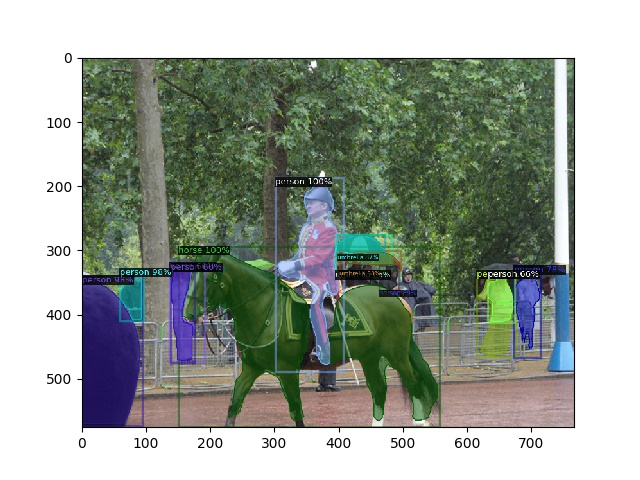
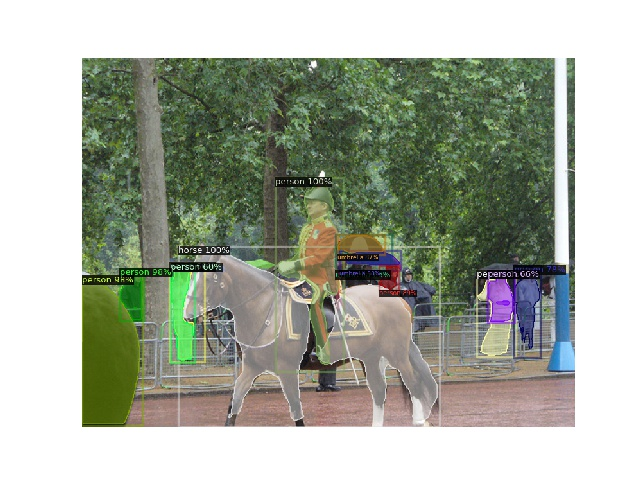
Train function completed with data loader. Old inference code moved to sample_inference.

diff --git a/loader.py b/loader.py
@@ -1,0 +1,79 @@
+import cv2
+import os
+import numpy as np
+import json
+import random
+from detectron2.structures import BoxMode
+from detectron2.utils.visualizer import Visualizer
+
+def get_balloon_dicts(img_dir):
+    json_file = os.path.join(img_dir, "via_region_data.json")
+    
+    with open(json_file) as f:
+        imgs_anns = json.load(f)
+
+    dataset_dicts = []
+    
+    for idx, v in enumerate(imgs_anns.values()):
+        record = {}
+
+        filename = os.path.join(img_dir, v["filename"])
+        height, width = cv2.imread(filename).shape[:2]
+
+        record["file_name"] = filename
+        record["image_id"] = idx
+        record["height"] = height
+        record["width"] = width
+        
+
+        annos = v["regions"]
+        objs = []
+
+        for _, anno in annos.items():
+            assert not anno["region_attributes"]
+            anno = anno["shape_attributes"]
+            px = anno["all_points_x"]
+            py = anno["all_points_y"]
+            poly = [(x + 0.5, y + 0.5) for x, y in zip(px, py)]
+            poly = [p for x in poly for p in x]
+
+            obj = {
+                "bbox": [np.min(px), np.min(py), np.max(px), np.max(py)],
+                "bbox_mode": BoxMode.XYXY_ABS,
+                "segmentation": [poly],
+                "category_id": 0,
+                "iscrowd": 0
+            }
+
+            objs.append(obj)
+
+        record["annotations"] = objs
+        dataset_dicts.append(record)
+
+    return dataset_dicts
+
+from detectron2.data import DatasetCatalog, MetadataCatalog
+
+
+for d in ["train", "val"]:
+    DatasetCatalog.register("balloon_" + d, lambda d=d: get_balloon_dicts("balloon/" + d))
+    MetadataCatalog.get("balloon_" + d).set(thing_classes=["balloon"])
+
+balloon_metadata = MetadataCatalog.get("balloon_train")
+
+
+# Verify data loading function
+
+def verify_dataloader():
+    dataset_dicts = get_balloon_dicts("balloon/train")
+
+    random.seed(1)
+    for d in random.sample(dataset_dicts, 3):
+        img = cv2.imread(d["filename"])
+        visualizer = Visualizer(img[:, :, ::-1], metadata=balloon_metadata, scale=0.5)
+        vis = visualizer.draw_dataset_dict(d)
+        #cv2.imshow(vis.get_image()[:, :, ::-1])
+        image_name = str(random.randint(0,100)) + ".jpg"
+        cv2.imwrite(image_name, vis.get_image()[:, :, ::-1])
+
+#verify_dataloader()

diff --git a/inference.py b/inference.py
@@ -1,50 +1,5 @@
-import detectron2
-import numpy as np
-
-#import cv2
-import matplotlib.pyplot as plt
-from PIL import Image
-
-from detectron2 import model_zoo
-from detectron2.engine import DefaultPredictor
 from detectron2.config import get_cfg
-from detectron2.utils.visualizer import Visualizer
-from detectron2.data import MetadataCatalog
-from torchvision import transforms
-
-
-# Load image
-#im = cv2.imread("./input.jpg")
-im = Image.open("./input.jpg")
-# Enable to show window images on console
-#cv2.startWindowThread()
-#cv2.namedWindow("preview")
-
-# Convert Image to numpy array expected by the predictor
-im_array = np.array(im)
-print(im_array.shape)
-
+from detectron2.engine import DefaultPredictor
 
 cfg = get_cfg()
-
-# Load model
-cfg.merge_from_file(model_zoo.get_config_file("COCO-InstanceSegmentation/mask_rcnn_R_50_FPN_3x.yaml"))
-cfg.MODEL.ROI_HEADS.SCORE_THRESH_TEST = 0.5
-cfg.MODEL.WEIGHTS = "detectron2://COCO-InstanceSegmentation/mask_rcnn_R_50_FPN_3x/137849600/model_final_f10217.pkl"
-
-predictor = DefaultPredictor(cfg)
-outputs = predictor(im_array)
-
-print(outputs["instances"].pred_classes)
-print(outputs["instances"].pred_boxes)
-
-# Visualize boxes
-v = Visualizer(im_array[:, :, ::-1], MetadataCatalog.get(cfg.DATASETS.TRAIN[0]), scale=1.2)
-v = v.draw_instance_predictions(outputs["instances"].to("cpu"))
-
-# Save predictions
-fig = plt.figure()
-plt.imshow(v.get_image()[:,:,::-1])
-fig.savefig("./prediction.jpg")
-#cv2.imshow("preview", v.get_image()[:, :, ::-1])
-#cv2.waitKey()
+cfg.MODEL.WEIGHTS(os.path.join(cfg.OUT))

diff --git a/sample_inference.py b/sample_inference.py
@@ -1,0 +1,49 @@
+import detectron2
+import numpy as np
+
+#import cv2
+import matplotlib.pyplot as plt
+from PIL import Image
+
+from detectron2 import model_zoo
+from detectron2.engine import DefaultPredictor
+from detectron2.config import get_cfg
+from detectron2.utils.visualizer import Visualizer
+from detectron2.data import MetadataCatalog
+from torchvision import transforms
+
+
+# Load image
+#im = cv2.imread("./input.jpg")
+im = Image.open("./input.jpg")
+# Enable to show window images on console
+#cv2.startWindowThread()
+#cv2.namedWindow("preview")
+
+# Convert Image to numpy array expected by the predictor
+im_array = np.array(im)
+
+cfg = get_cfg()
+
+# Load model
+cfg.merge_from_file(model_zoo.get_config_file("COCO-InstanceSegmentation/mask_rcnn_R_50_FPN_3x.yaml"))
+cfg.MODEL.ROI_HEADS.SCORE_THRESH_TEST = 0.5
+cfg.MODEL.WEIGHTS = "detectron2://COCO-InstanceSegmentation/mask_rcnn_R_50_FPN_3x/137849600/model_final_f10217.pkl"
+
+predictor = DefaultPredictor(cfg)
+outputs = predictor(im_array)
+
+print(outputs["instances"].pred_classes)
+print(outputs["instances"].pred_boxes)
+
+# Visualize boxes
+v = Visualizer(im_array[:, :, ::-1], MetadataCatalog.get(cfg.DATASETS.TRAIN[0]), scale=1.2)
+v = v.draw_instance_predictions(outputs["instances"].to("cpu"))
+
+# Save predictions
+fig = plt.figure()
+plt.axis("off")
+plt.imshow(v.get_image()[:,:,::-1])
+fig.savefig("./prediction.jpg")
+#cv2.imshow("preview", v.get_image()[:, :, ::-1])
+#cv2.waitKey()

diff --git a/train.py b/train.py
@@ -1,0 +1,24 @@
+import os
+
+from detectron2 import model_zoo
+from detectron2.engine import DefaultTrainer
+from detectron2.config import get_cfg
+
+from loader import get_balloon_dicts
+
+cfg = get_cfg()
+cfg.merge_from_file(model_zoo.get_config_file("COCO-InstanceSegmentation/mask_rcnn_R_50_FPN_3x.yaml"))
+cfg.DATASETS.TRAIN = ("balloon_train",)
+cfg.DATASETS.TEST = ()
+cfg.DATALOADER.NUM_WORKERS = 4
+cfg.MODEL.WEIGTHS = "detectron2://COCO-InstanceSegmentation/mask_rcnn_R_50_FPN_3x/137849600/model_final_f10217.pkl"
+cfg.SOLVER.IMS_PER_BATCH = 2
+cfg.SOLVER.BASE_LR = 0.00025
+cfg.SOLVER.MAX_ITER = 300
+cfg.MODEL.ROI_HEADS.BATCH_PER_IMAGE = 128
+cfg.MODEL.ROI_HEADS.NUM_CLASSES = 1
+
+os.makedirs(cfg.OUTPUT_DIR, exist_ok=True)
+trainer = DefaultTrainer(cfg)
+trainer.resume_or_load(resume=False)
+trainer.train()
